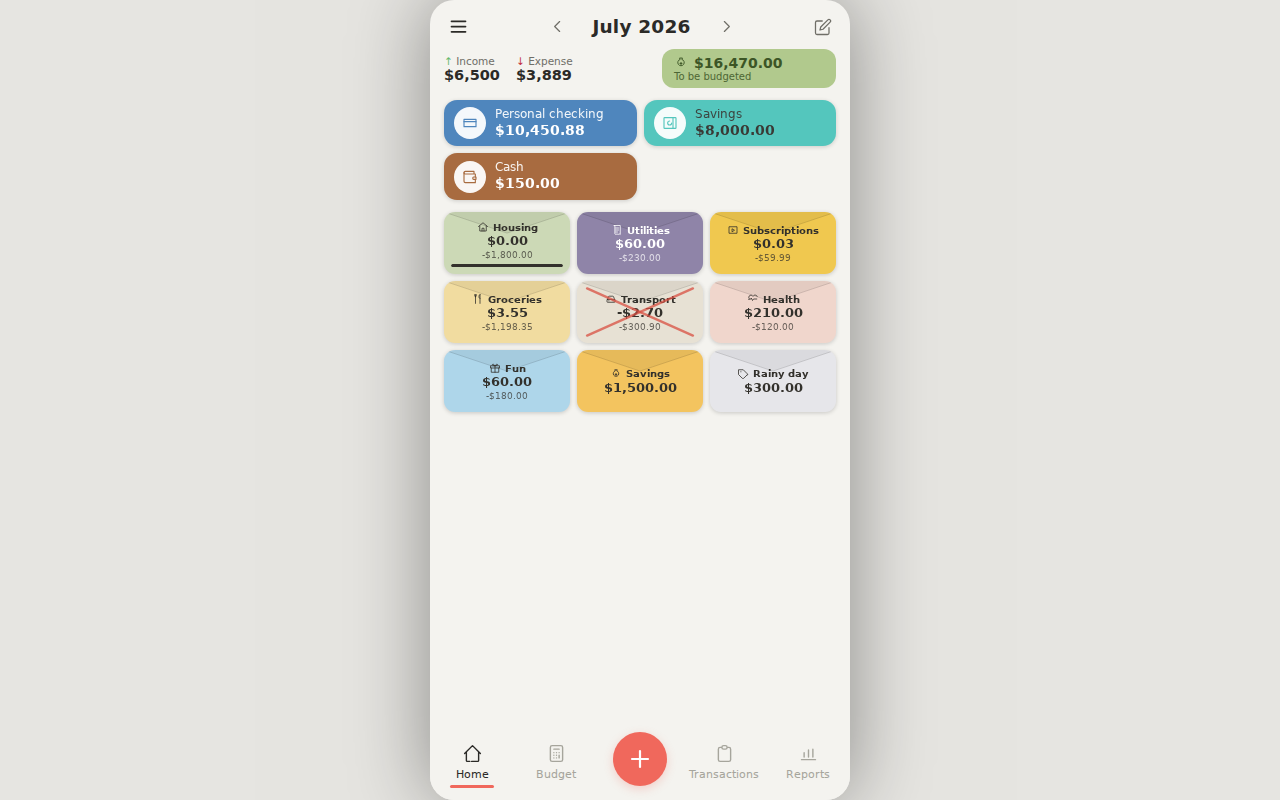
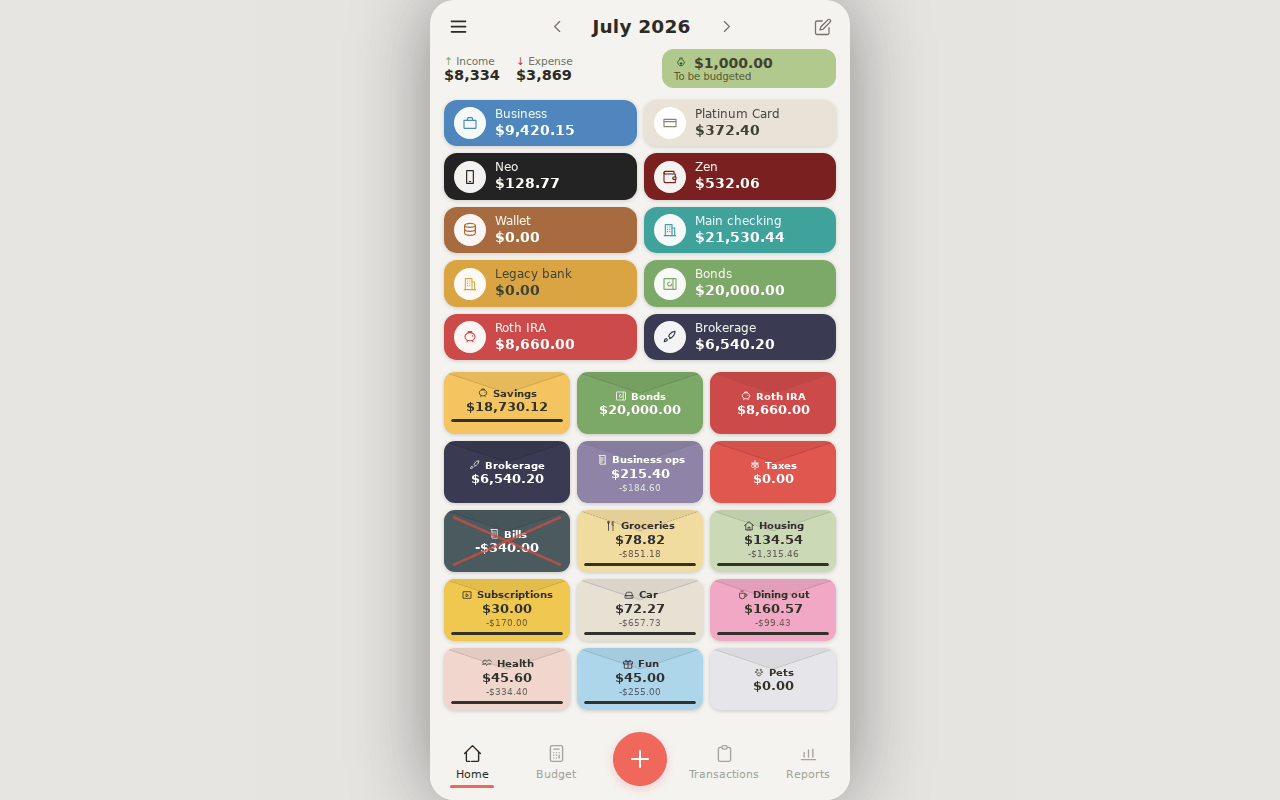
docs: README screenshots recreated with a rich English dataset
Replaces the two-image README block with a five-shot gallery (Start, Budget,
Transactions, Reports + desktop) captured from a throwaway stack against a
synthetic English dataset — ten accounts, fifteen envelopes across four
groups, and twelve months of history producing a rising net-worth chart with
one dip, all goals funded, and zero overspent envelopes. Also captures the
AI screenshot-import review sheet as a bonus asset.

Claude-Session: https://claude.ai/code/session_01H94iUfk8DgWCw6o3L2phwS

Changed region(s): [[0.3438, 0.125, 0.6562, 0.9062], [0.5625, 0.0625, 0.625, 0.0938]]

diff --git a/README.md b/README.md
@@ -5,7 +5,13 @@ mobile-first PWA (installable on iOS and Android), self-hosted with a single
 `docker compose up`. Your ledger lives on your devices; the server is a thin,
 optionally end-to-end-encrypted sync layer.
 
-<p align="center"><img src="docs/assets/start-mobile.png" width="260" alt="Enveo on a phone"> <img src="docs/assets/start-desktop.png" width="520" alt="Enveo on the desktop"></p>
+<p align="center">
+  <img src="docs/assets/start-mobile.png" width="200" alt="Start screen: accounts and envelopes for the month">
+  <img src="docs/assets/budget-mobile.png" width="200" alt="Budget screen: envelope groups with allocated and available columns">
+  <img src="docs/assets/transactions-mobile.png" width="200" alt="Transactions screen: grouped by day with accounts and transfers">
+  <img src="docs/assets/reports-mobile.png" width="200" alt="Reports screen: net worth, cash flow, spending, goals and envelope budgets">
+</p>
+<p align="center"><img src="docs/assets/start-desktop.png" width="640" alt="Enveo on the desktop"></p>
 
 > Domain model: money physically sits in **accounts**; budgeting means distributing
 > it into virtual **envelopes**. Invariant: `Σ(envelope available) + To Be Budgeted =
